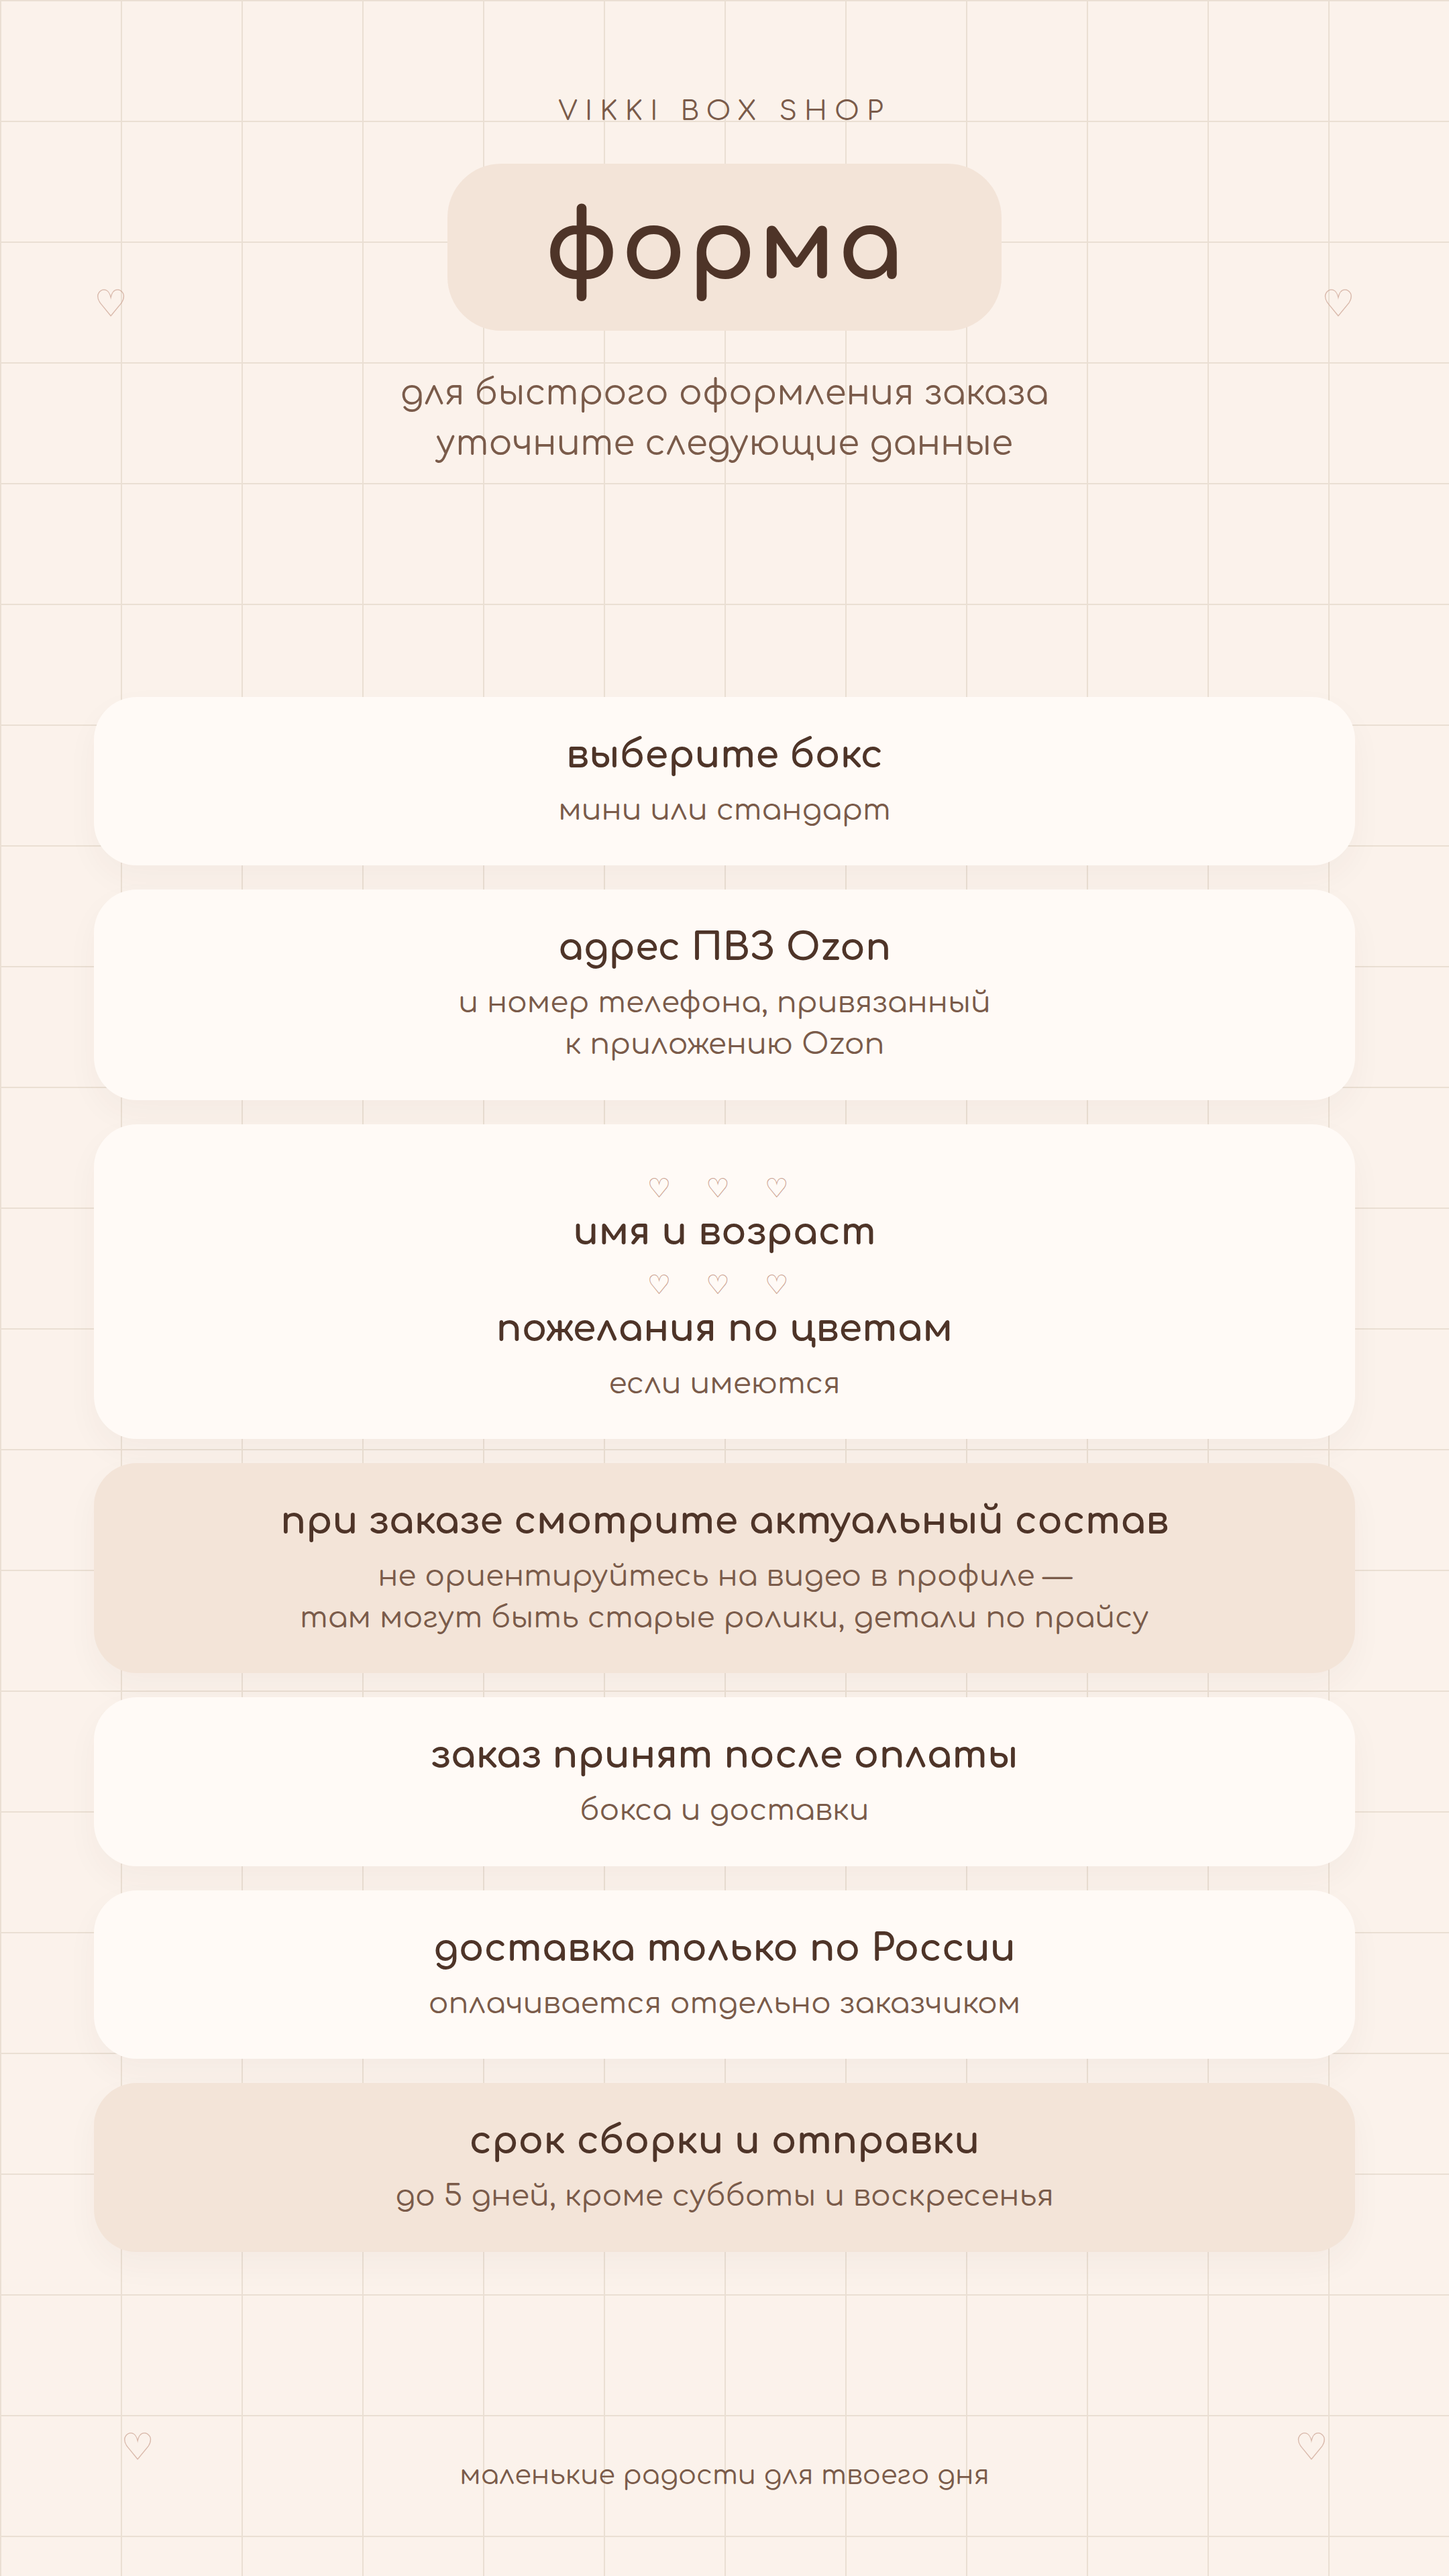
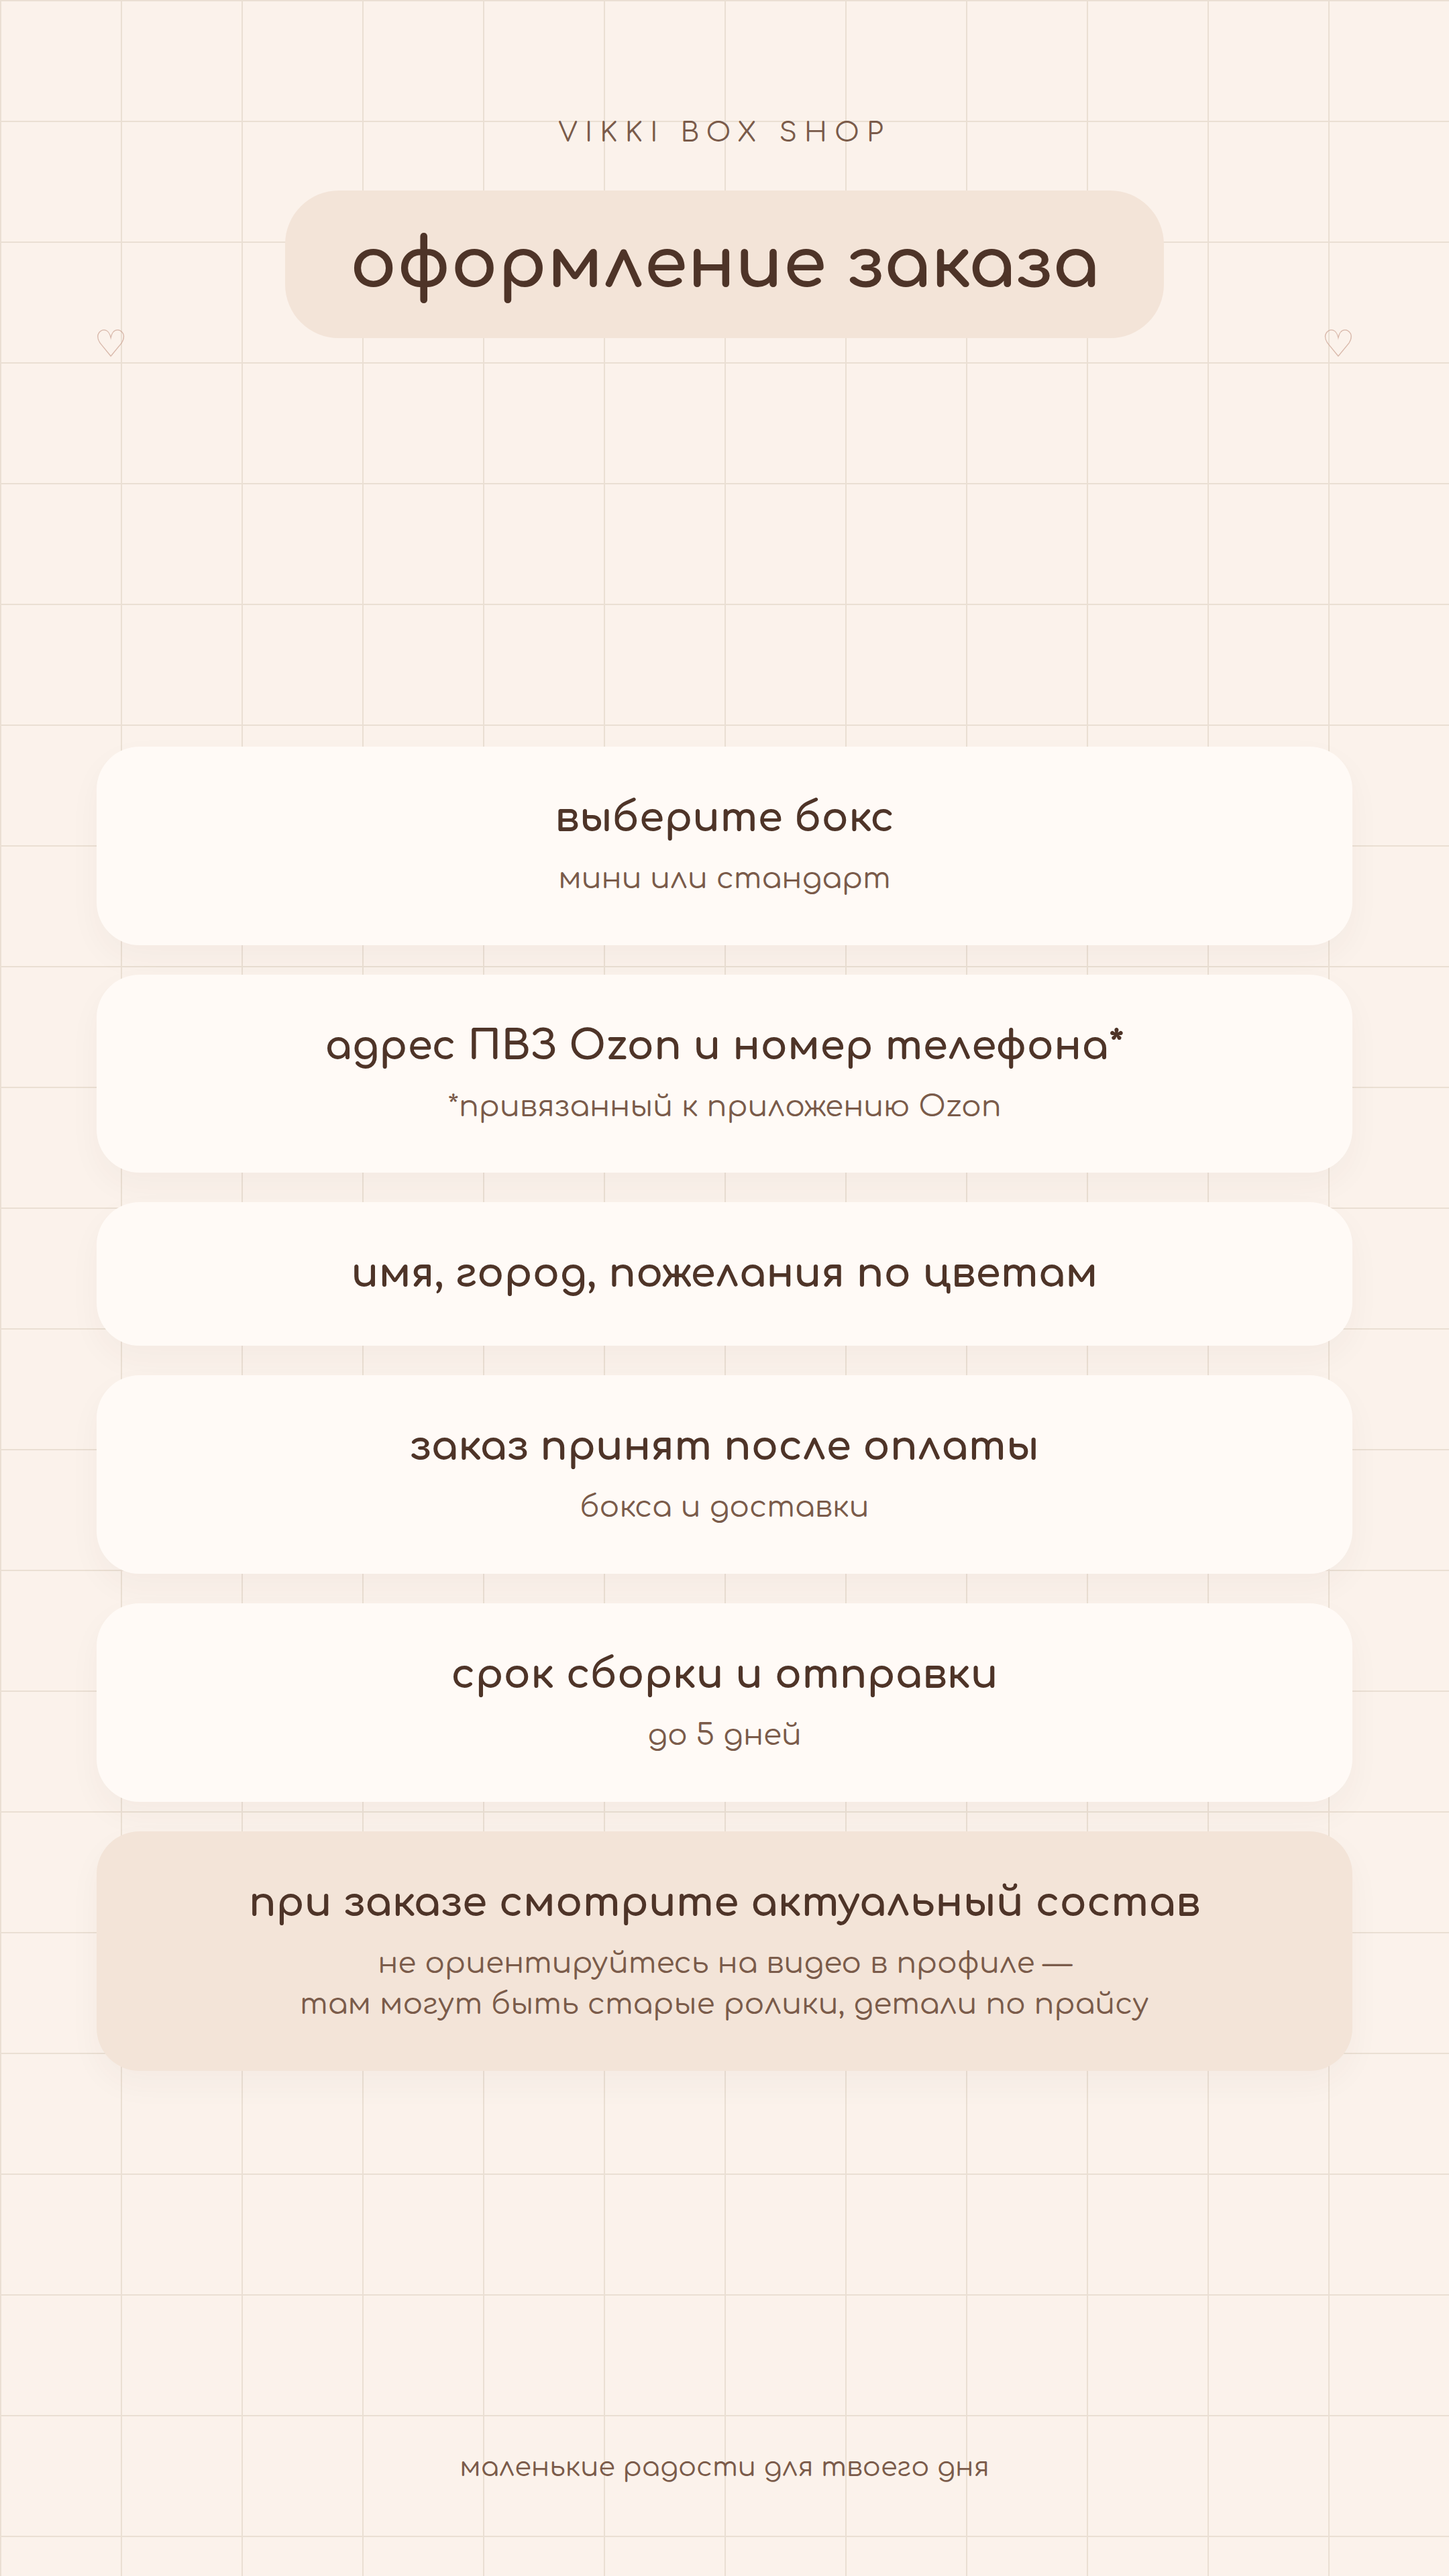
Lighten the order story and offer three layout variants
Rewrite the form copy and keep a stacked cream slide plus two more editorial and organic versions.

diff --git a/src/app/order/page.tsx b/src/app/order/page.tsx
@@ -14,13 +14,13 @@ export default function OrderPage() {
         <p className="text-[11px] tracking-[0.28em] uppercase text-blush">
           форма
         </p>
-        <h1 className="mt-3 text-4xl font-semibold">Для быстрого заказа</h1>
+        <h1 className="mt-3 text-4xl font-semibold">Оформление заказа</h1>
         <ul className="mt-5 space-y-3 text-sm leading-6 text-ink-soft">
           <li>мини — 1 500 ₽, стандарт — 2 000 ₽</li>
-          <li>нужны адрес ПВЗ Ozon и телефон из приложения</li>
+          <li>адрес ПВЗ Ozon и номер телефона, привязанный к приложению</li>
+          <li>имя, город, пожелания по цветам</li>
           <li>заказ принят после оплаты бокса и доставки</li>
-          <li>доставка только по России, оплачивается отдельно</li>
-          <li>сборка и отправка — до 5 дней, кроме субботы и воскресенья</li>
+          <li>сборка и отправка — до 5 дней</li>
           <li>смотрите актуальный состав, а не старые видео в профиле</li>
         </ul>
       </Reveal>

diff --git a/src/components/order-form.tsx b/src/components/order-form.tsx
@@ -10,7 +10,7 @@ export function OrderForm() {
   const searchParams = useSearchParams();
   const preset = searchParams.get("box") ?? "";
   const [name, setName] = useState("");
-  const [age, setAge] = useState("");
+  const [city, setCity] = useState("");
   const [phone, setPhone] = useState("");
   const [pvz, setPvz] = useState("");
   const [mood, setMood] = useState(preset);
@@ -35,7 +35,7 @@ export function OrderForm() {
 
     const order = {
       name: name.trim(),
-      age: age.trim(),
+      city: city.trim(),
       phone: phone.trim(),
       pvz: pvz.trim(),
       mood: mood || "any",
@@ -126,12 +126,12 @@ export function OrderForm() {
           />
         </label>
         <label className="block text-sm">
-          <span className="text-ink-soft">Возраст</span>
+          <span className="text-ink-soft">Город</span>
           <input
-            value={age}
-            onChange={(event) => setAge(event.target.value)}
+            value={city}
+            onChange={(event) => setCity(event.target.value)}
             className="mt-1 w-full rounded-2xl border border-blush/30 bg-cream px-4 py-3 outline-none transition focus:border-blush"
-            placeholder="например, 19"
+            placeholder="Санкт-Петербург"
           />
         </label>
       </div>
